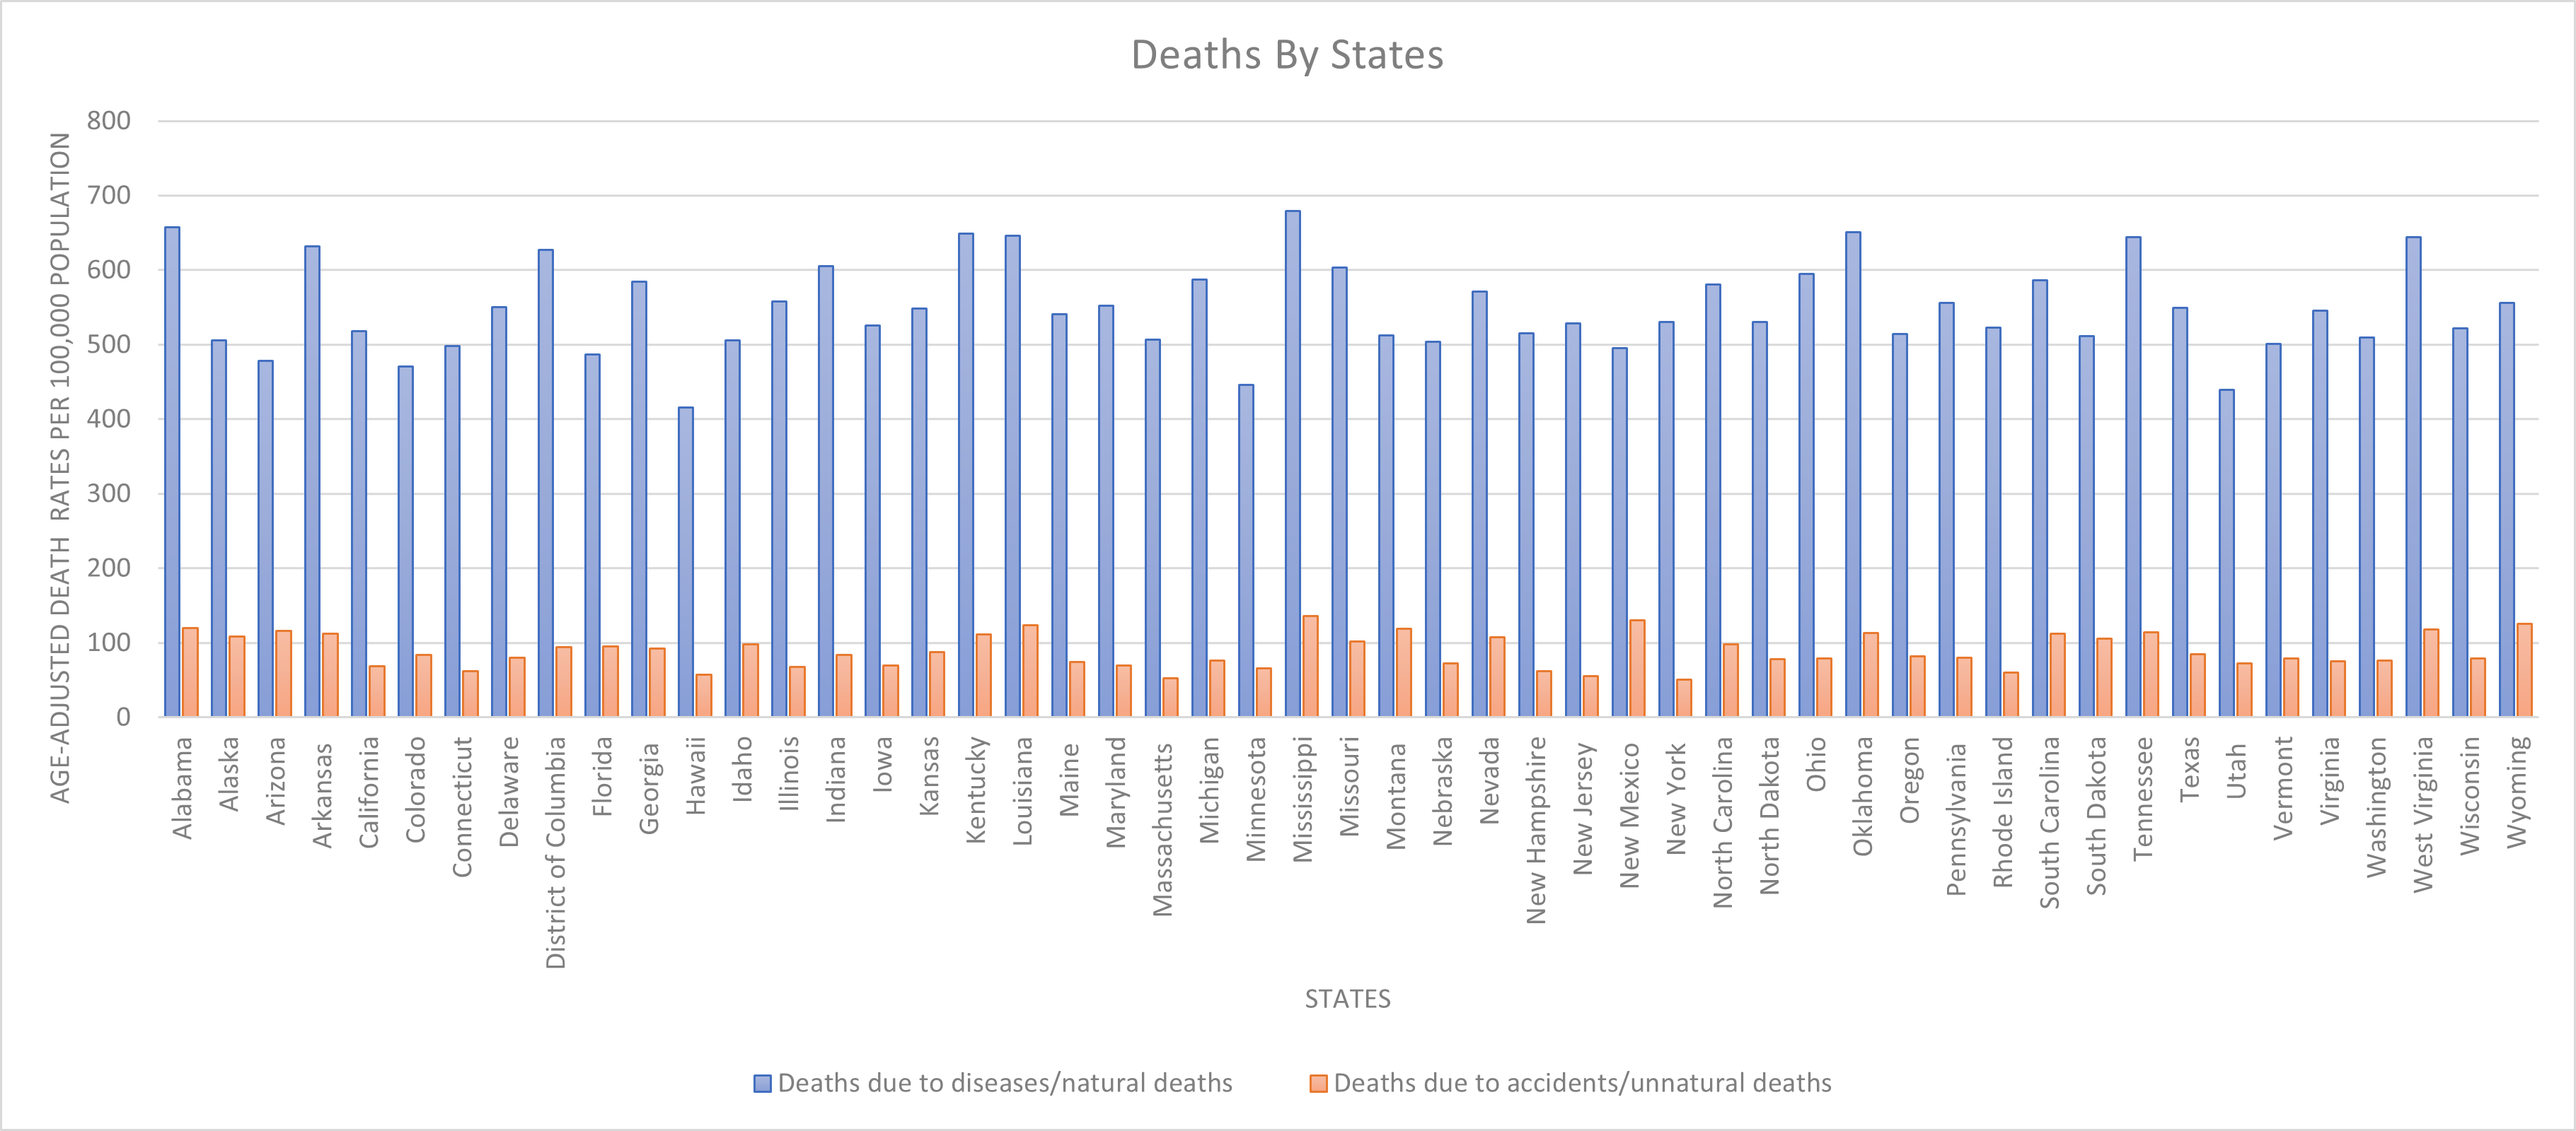
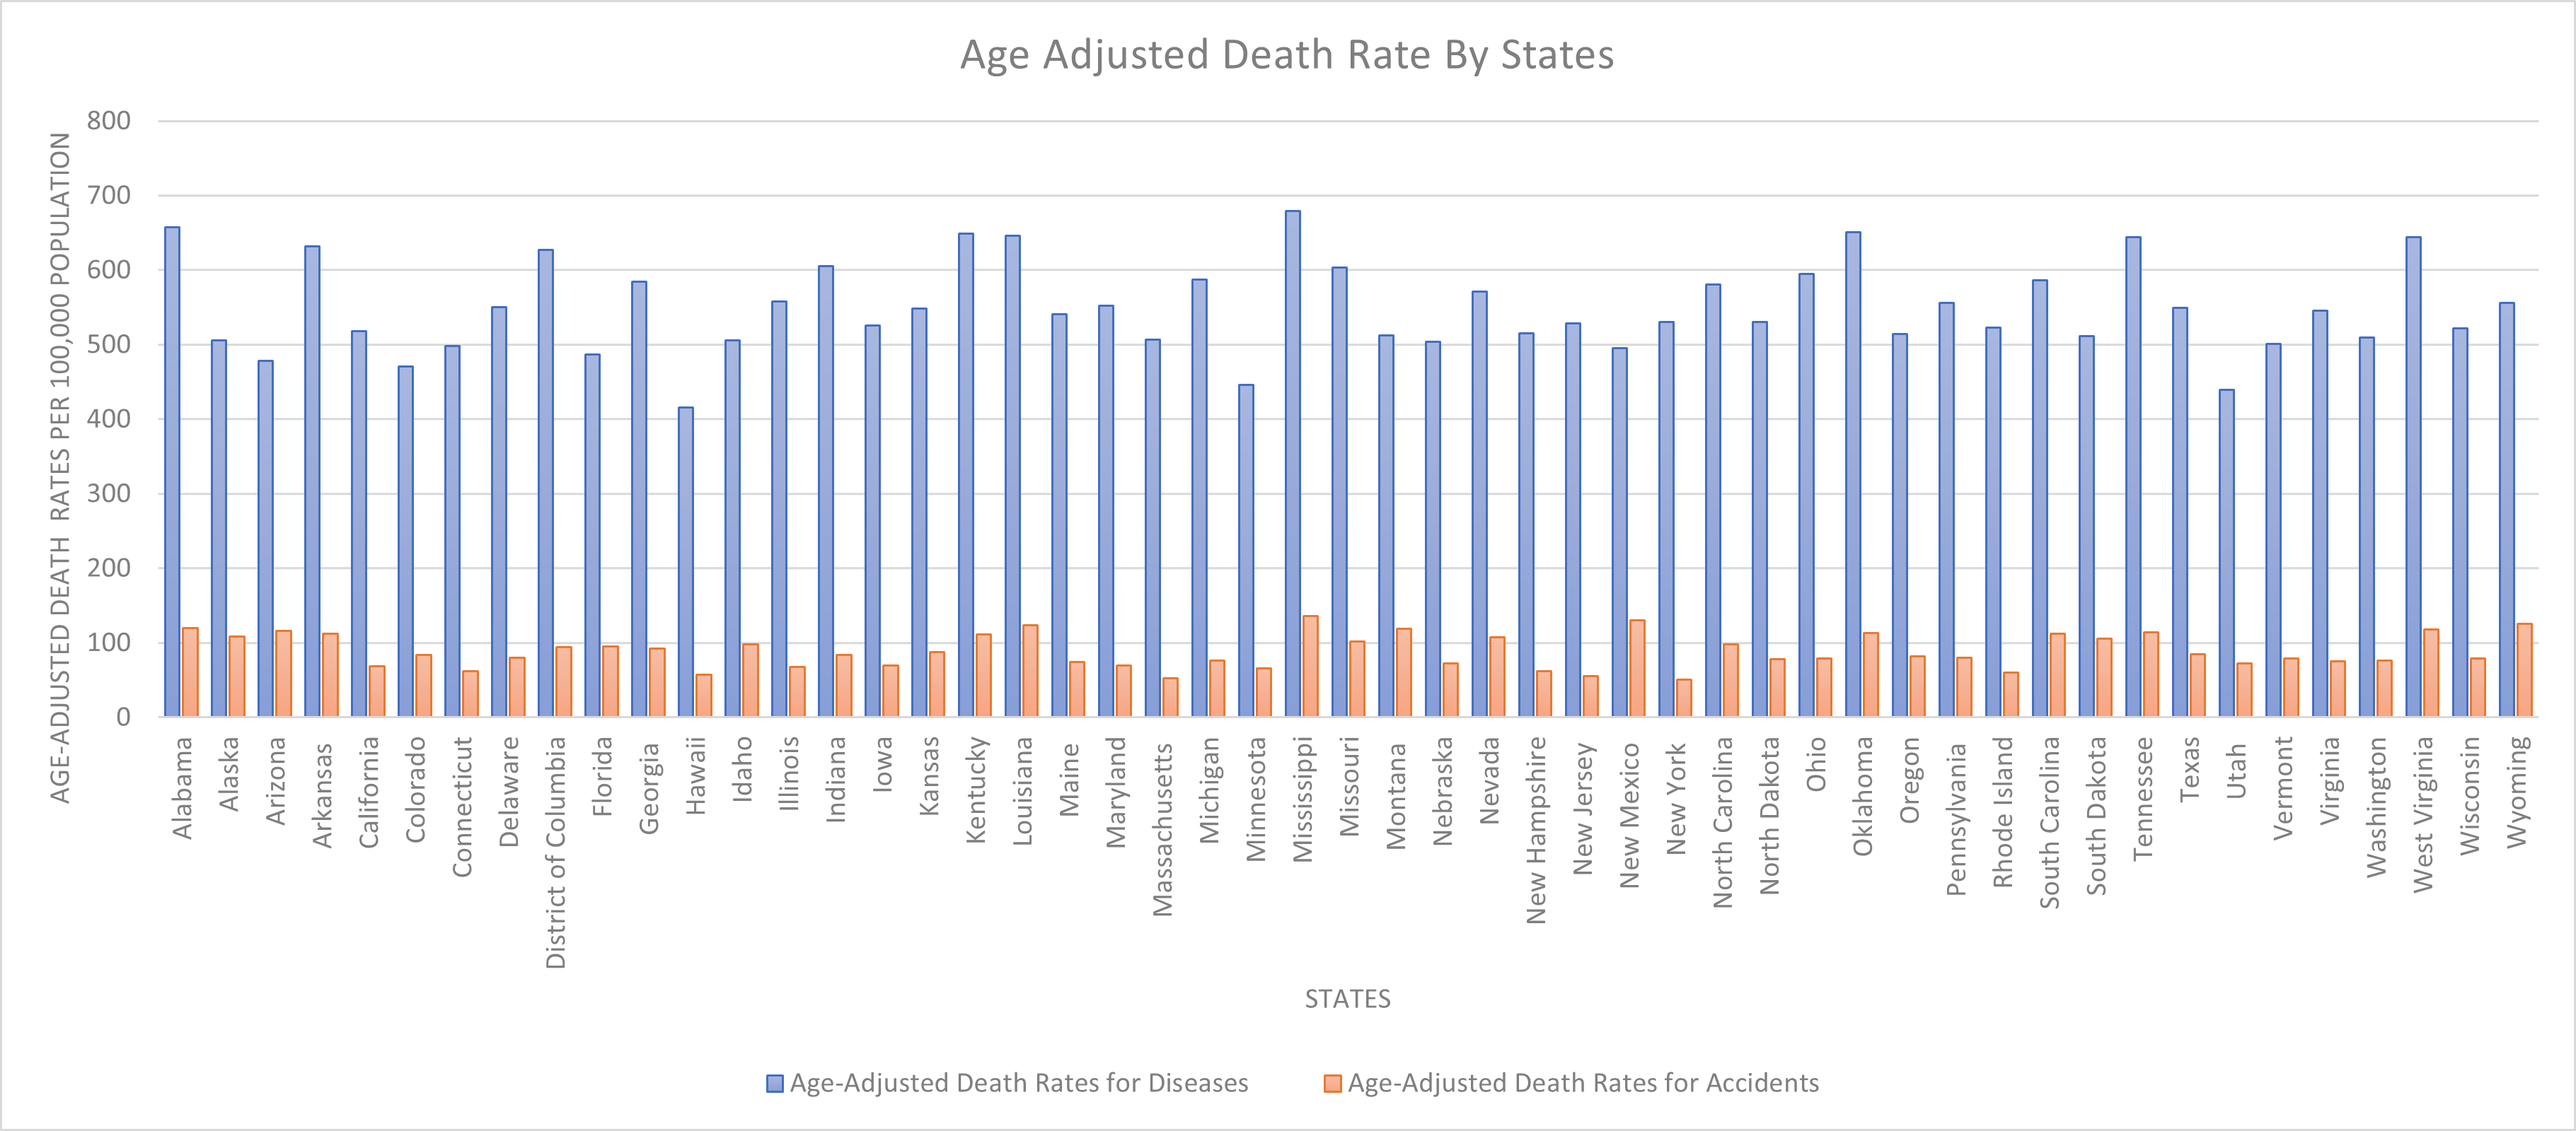
update

Changed region(s): [[0.2793, 0.9375, 0.7138, 0.9688], [0.3724, 0.0312, 0.6207, 0.0625]]

diff --git a/HW4/HW4-report.md b/HW4/HW4-report.md
@@ -312,11 +312,87 @@ Based on this analysis, several conclusions can be drawn, including significant 
 
 **Is this ordering different if you compare deaths due to disease vs. deaths due to accident, injury, and assault? In other words, which states are more hazardous to your health vs. which states are the most dangerous?**
 
+To answer this question. Three bar charts were plotted for better analysis of the data. However, before the plotting, the data had to be manipulated in such a way that all the columns containing data of deaths by diseases and deaths by accidents become separate and their values added to create two new columns named 'Deaths due to diseases deaths' and 'Deaths due to accidents deaths'. Later these two columns along with 'State' column were used to plot the charts. The data was manipulated using Python. The code for this manipulation is below:
+
+##### Code
+
+```
+
+drive.mount("/content/drive", force_remount=True)
+deaths_data = pd.read_csv("/content/drive/MyDrive/CS_625_HW4/dataset2.csv")
+
+disease_death_columns = ['Diseases of heart', 'Malignant neoplasms (cancer)', 'Cerebrovascular diseases',
+                         'Chronic lower respiratory disease', 'Diabetes mellitus', "Alzheimer's disease",
+                         'Influenza and pneumonia', 'Nephritis, nephrotic syndrome and nephrosis', 'Human immunodeficiency virus (HIV)']
+accidental_death_columns = ['Total Accidents', 'Motor vehicle accidents', 'By firearms',
+                           'Intentional self-harm (suicide)', 'Assault (homicide)']
+
+valid_disease_death_columns = deaths_data[disease_death_columns].select_dtypes(include=['number'])
+deaths_data['Age-Adjusted Death Rates for Diseases Deaths'] = valid_disease_death_columns.sum(axis=1)
+
+valid_accidental_death_columns = deaths_data[accidental_death_columns].select_dtypes(include=['number'])
+deaths_data['Age-Adjusted Death Rates for Accidental Deaths'] = valid_accidental_death_columns.sum(axis=1)
+
+```
+
+**The CSV File for this chart is, [dataset2_q2.csv](dataset2_q2.csv)**
+
+##### Explanation
+
+We first read the dataset from a CSV file named "dataset2.csv" and loads this data into a Pandas DataFrame. Then two lists, diseases_death_columns and accidental_death_columns, are defined. These lists contain the names of columns that represent different causes of death within the dataset. diseases_death_columnsis designed to include causes of deaths due to diseases, such as heart diseases, cancer, and respiratory diseases, while accidental_death_columns encompasses causes of accidental deaths, including accidents and suicides. After defining the columns we add all the columns in each category and put the resulting value in two new columns, namely, 'Age-Adjusted Death Rates for Diseases Deaths' and 'Age-Adjusted Death Rates for Accidental Deaths'. After this we extract this data from google colab and use MS Excel to plot the charts below:
+
 ![Bar Chart Dataset 2 Question 2](dataset2_q2_excel1.png)
+
+First, we create a grouped bar chart because it allows us to compare two different categories (Age-Adjusted Death Rates for Diseases Deaths per 100,000 Population and Age-Adjusted Death Rates for Accidental Deaths per 100,000 Population) for each state side by side. This type of chart is useful when we want to compare multiple related categories within each data point. In this case, we are comparing the number of deaths due to different causes for each state.
+
+The chart shows the Age Adjusted Death Rate by State, with two bars for each state. The blue bars represent the "Diseases Deaths" category, and the red bars represent the "Accidents Deaths" category. The x-axis represents the states, and the y-axis represents the number of deaths.
+
+We can easily see the variations in the age-adjusted death rates for diseases deaths and age-adjusted death rates for accidental deaths across different states. But it's hard to tell which state is the highest or lowest. To find this we created two additional charts which individually show the age-adjusted death rates for diseases/ deaths and age-adjusted death rates for accidental deaths across different states.
+
+Idiom: Grouped Bar Chart / Mark: Line
+| Data: Attribute | Data: Attribute Type  | Encode: Channel | 
+| --- |---| --- |
+| States | Key, Categorical | Horizontal Position (X-axis) |
+| Age-Adjusted Death Rate per 100,000 Population | Value, Quantitative | Vertical Position (Y-axis) |
+| Diseases Deaths OR Accidental Deaths | Key, Categorical | Color Hue (Third Channel) |
 
 ![Bar Chart Dataset 2 Question 2](dataset2_q2_excel2.png)
 
+This chart was created using the same data in the previous chart. However, we only plotted data for the 'State' column and the 'Age-Adjusted Death Rates for Diseases Deaths' column. The x-axis denotes the states while the y-axis represents the Age-Adjusted Death Rates for Diseases Deaths per 100,000 population. This charts helps us analyze the deaths rates caused by diseases in different states.
+
+Idiom: Bar Chart / Mark: Line
+| Data: Attribute | Data: Attribute Type  | Encode: Channel | 
+| --- |---| --- |
+| States | Key, Categorical | Horizontal Position (X-axis) |
+| Age-Adjusted Death Rates for Diseases Deaths | Value, Quantitative | Vertical Position (Y-axis) |
+
 ![Bar Chart Dataset 2 Question 2](dataset2_q2_excel3.png)
+
+This chart was also created using the same data in the previous chart. However, we only plotted data for the 'State' column and the 'Age-Adjusted Death Rates for Accidental Deaths' column. The x-axis denotes the states while the y-axis represents the Age-Adjusted Death Rates for Accidental Deaths per 100,000 population. This charts helps us analyze the deaths rates caused by accidents in different states.
+
+Idiom: Bar Chart / Mark: Line
+| Data: Attribute | Data: Attribute Type  | Encode: Channel | 
+| --- |---| --- |
+| States | Key, Categorical | Horizontal Position (X-axis) |
+| Age-Adjusted Death Rates for Accidental Deaths | Value, Quantitative | Vertical Position (Y-axis) |
+
+The three chart's key findings are as follows:
+
+- The state with the highest number of deaths due to diseases is Mississippi. Mississippi is followed by Alabama, Oklahoma, and Kentucky, which also have relatively high mortality rates due to diseases. This shows that these cities are the most unhealthy to live in.
+
+- States with lower mortality rates from diseases include Minnesota, Colorado, Utah, and Hawaii. This helps us reach the conclusion that these cities are comaparatively healthier to live in.
+
+- The state with the highest number of deaths due to accidents is again Mississippi. Mississippi is followed by Louisiana, New Mexico, and Wyoming, which have relatively high mortality rates due to accidents. This shows that these cities are the most unsafe to live in.
+
+- States with lower mortality rates from accidents include Massachusetts, New York, New Jersey, and Hawaii.This helps us reach the conclusion that these cities are comaparatively safe to live in.
+
+However, it's essential to remember that these conclusions are based solely on the provided mortality data and do not account for all factors that contribute to health and safety in a state. A comprehensive assessment would require consideration of various other socioeconomic, healthcare, and lifestyle factors.
+
+**The Excel File for this chart, [dataset2_q2_excel.xlsx](dataset2_q2_excel.xlsx)**
+
+### Further Questions:
+
+
 
 ## References
 
